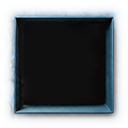
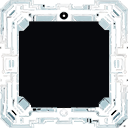
pack_border update

diff --git a/templates/default/kujipick.htm b/templates/default/kujipick.htm
@@ -35,16 +35,20 @@
 </form>
 <!--{elseif 3==$ktype}-->
 <div style="width:950px; height:24px; text-align:left">请点击一个卡集来抽取。</div>
+<br>
 <form method="post" name="ktype3" action="kuji.php?type=$ktype">
 	<input type="hidden" id="packchoice" name="packchoice" value="">
 	<!--{eval $pl = \cardbase\pack_filter($packlist,1);}-->
 	<div>
+	<!--{eval $title_height = 40;}-->
 	<!--{loop $pl $v}-->
-		<!--{eval $packname = $v; $title_height = 32;}-->
+		<!--{eval $packname = $v; }-->
 		<!--{eval $pack_title = '<input type="submit" name="enter" class="b_button bc_white" value="'.$v.'" onclick="$(\'packchoice\').value=\''.$v.'\'; document.ktype3.submit();">';}-->
 		{template MOD_CARDBASE_PACK_FRAME}
 		<!--{/loop}-->
 	</div>
+	<br>
+	<br>
 </form>
 <!--{/if}-->
 <form method="post" name="backindex" action="kujilist.php">

diff --git a/templates/default/updatelist_2024.htm b/templates/default/updatelist_2024.htm
@@ -76,6 +76,7 @@ FEATUREs TO ADD：
 	
 	<li>（△）调整了偶像歌姬技能【夺目】的文字说明（现在会显示上一次唱歌的地点），实际效果不变。</li>
 	<li>（△）现在妙手天成技能【铸血】不再会提高特殊类别、电子设备和改造道具的效果和耐久值了。</li>
+	<li>（△）调整了卡集封面的显示效果。</li>
 </ul>
 <p>已知BUG修复：</p>
 <ul>
